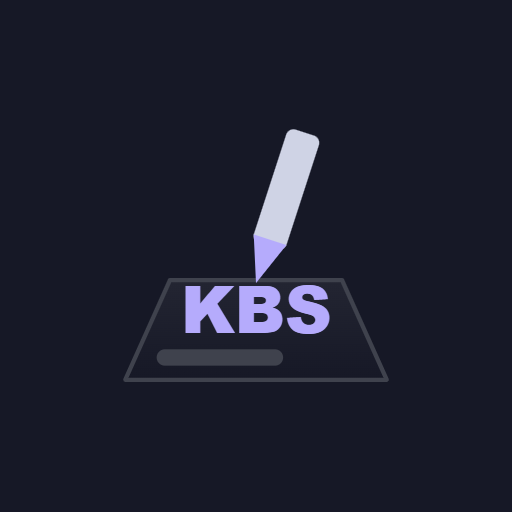
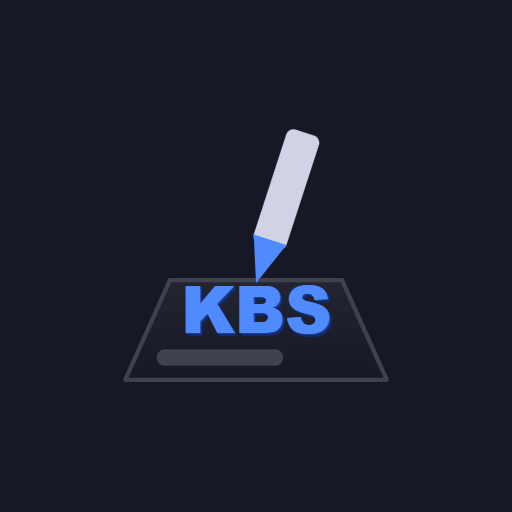
아이콘 — KBS 파란색·3D 입체, 연필촉 파랑, 글자 한자씩 등장
- 홈 로고: 연필이 K→B→S 지나가며 한 글자씩 페이드인(writeKBS 4.4s 동기화)
- KBS 파란색(#4f8bff)+진파랑 그림자 3D, 연필촉 파랑, reduced-motion시 전체표시
- 앱아이콘 PNG 6종: 파랑·3D KBS로 재생성(정지 완성형), sw v35

Changed region(s): [[0.3438, 0.4375, 0.6562, 0.6562]]

diff --git a/index.html b/index.html
@@ -49,9 +49,15 @@
     .hero { text-align:center; margin:14px 0 22px; }
     .emblem { display:grid; place-items:center; margin:2px auto 12px; }
     .appicon { width:116px; height:116px; border-radius:27px; overflow:hidden; box-shadow:0 12px 28px rgba(20,40,80,.30); display:block; }
-    @keyframes writing { 0%{transform:translate(-46px,0)} 14%{transform:translate(-30px,-12px)} 28%{transform:translate(-14px,2px)} 42%{transform:translate(4px,-12px)} 56%{transform:translate(22px,2px)} 70%{transform:translate(46px,-6px)} 80%{transform:translate(46px,0)} 100%{transform:translate(-46px,0)} }
-    .appicon .pencil { animation:writing 2.6s ease-in-out infinite; }
-    @media (prefers-reduced-motion: reduce) { .appicon .pencil { animation:none; transform:none; } }
+    @keyframes writeKBS { 0%{transform:translate(-96px,0)} 8%{transform:translate(-96px,-9px)} 18%{transform:translate(-96px,2px)} 33%{transform:translate(0,-9px)} 44%{transform:translate(0,2px)} 58%{transform:translate(96px,-9px)} 69%{transform:translate(96px,2px)} 82%{transform:translate(96px,0)} 100%{transform:translate(-96px,0)} }
+    @keyframes kA { 0%,12%{opacity:0} 18%,88%{opacity:1} 96%,100%{opacity:0} }
+    @keyframes kB { 0%,38%{opacity:0} 44%,88%{opacity:1} 96%,100%{opacity:0} }
+    @keyframes kS { 0%,63%{opacity:0} 69%,88%{opacity:1} 96%,100%{opacity:0} }
+    .appicon .pencil { animation:writeKBS 4.4s ease-in-out infinite; }
+    .appicon .kA { animation:kA 4.4s ease-in-out infinite; }
+    .appicon .kB { animation:kB 4.4s ease-in-out infinite; }
+    .appicon .kS { animation:kS 4.4s ease-in-out infinite; }
+    @media (prefers-reduced-motion: reduce) { .appicon .pencil{animation:none;transform:none} .appicon .kA,.appicon .kB,.appicon .kS{animation:none;opacity:1} }
     .wordmark { display:inline-block; font-family:var(--font-head); font-size:1.9rem; font-weight:800; line-height:1.1; letter-spacing:-.01em; color:var(--ink); }
     .wordmark::after { content:""; display:block; height:4px; border-radius:3px; margin:2px auto 0; background:linear-gradient(90deg,var(--accent),#7aa2ff); }
     .subtitle { font-size:.86rem; color:var(--muted); margin-top:10px; letter-spacing:.01em; }
@@ -124,11 +130,15 @@
           <defs><linearGradient id="paper" x1="0" y1="0" x2="0" y2="1"><stop offset="0" stop-color="#232532"/><stop offset="1" stop-color="#161826"/></linearGradient></defs>
           <path d="M312 568 H712 L816 800 H208 Z" fill="url(#paper)" stroke="#3f424d" stroke-width="10" stroke-linejoin="round"/>
           <path d="M300 748 H556" stroke="#3f424d" stroke-width="38" stroke-linecap="round"/>
-          <text x="512" y="690" text-anchor="middle" font-family="'Pretendard Variable',Pretendard,Arial,sans-serif" font-weight="800" font-size="150" fill="#b5abfc">KBS</text>
+          <g font-family="'Pretendard Variable',Pretendard,Arial,sans-serif" font-weight="800" font-size="150" text-anchor="middle">
+            <g class="kA"><text x="422" y="699" fill="#12296b">K</text><text x="419" y="694" fill="#1b3f95">K</text><text x="416" y="690" fill="#4f8bff">K</text></g>
+            <g class="kB"><text x="518" y="699" fill="#12296b">B</text><text x="515" y="694" fill="#1b3f95">B</text><text x="512" y="690" fill="#4f8bff">B</text></g>
+            <g class="kS"><text x="614" y="699" fill="#12296b">S</text><text x="611" y="694" fill="#1b3f95">S</text><text x="608" y="690" fill="#4f8bff">S</text></g>
+          </g>
           <g class="pencil">
             <g transform="rotate(18 512 575)">
               <rect x="472" y="207" width="80" height="278" rx="18" fill="#cfd3e5"/>
-              <path d="M472 469 L512 575 L552 469 Z" fill="#b5abfc"/>
+              <path d="M472 469 L512 575 L552 469 Z" fill="#4f8bff"/>
             </g>
           </g>
         </svg>

diff --git a/sw.js b/sw.js
@@ -1,5 +1,5 @@
 // KBS 일일업무일지 PWA 서비스워커 — 네트워크 우선 + 오프라인 캐시 폴백
-const CACHE = "ilji-v34";
+const CACHE = "ilji-v35";
 const SHELL = [
   "./", "./index.html", "./daily.html", "./cases.html", "./help.html", "./analysis.html", "./ai.html",
   "./hwpx.js", "./photo.js", "./storage.js", "./photoStorage.js",
